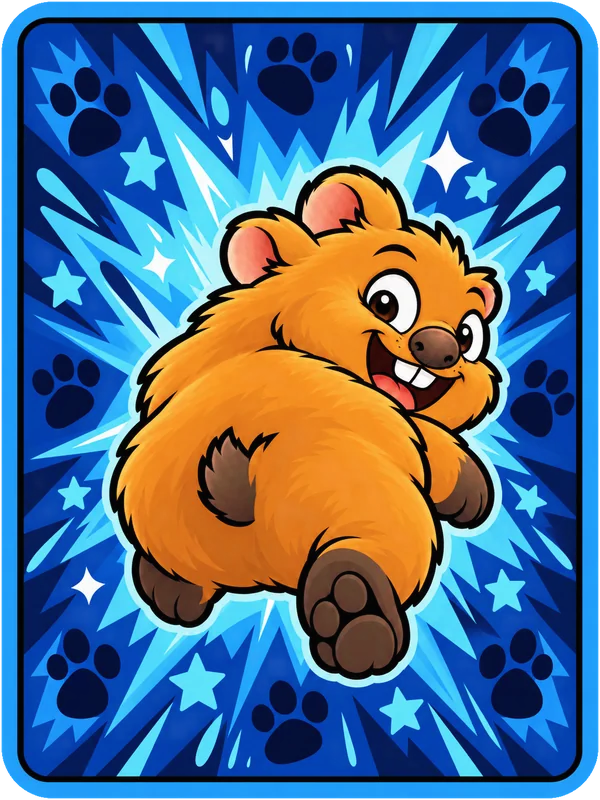
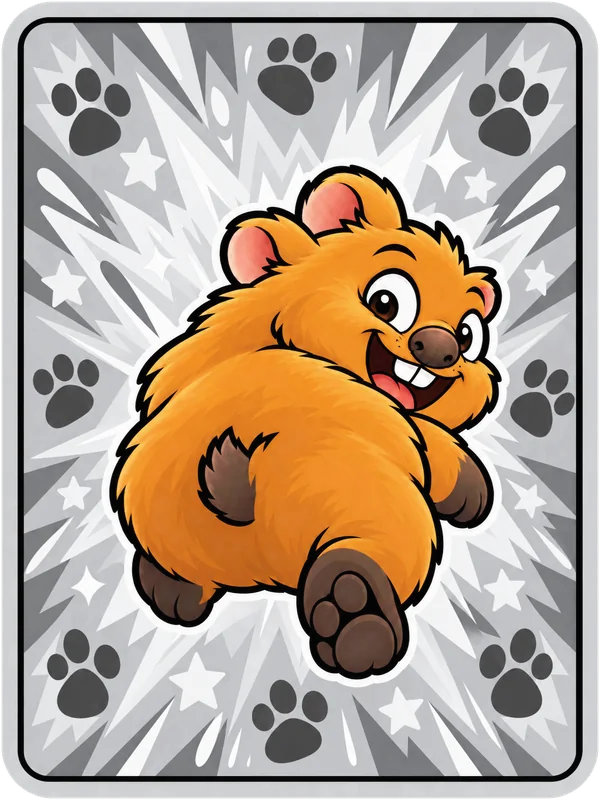
Nieuw app-icoon (juichende wombat met lontje, met oranje marge) en grijze achterkant
Claude-Session: https://claude.ai/code/session_01PFkz3mkhyNLrTZMqtyQZkE

diff --git a/sw.js b/sw.js
@@ -1,5 +1,5 @@
 // Wombam! service worker. Verhoog CACHE bij elke nieuwe versie (build.py doet dat vanzelf).
-const CACHE='wombam-v33';
+const CACHE='wombam-v35';
 const EXT='wombam-extern';   // lettertypen en Firebase-software: blijven bewaard bij een nieuwe versie
 const ASSETS=['./','index.html','manifest.webmanifest','icon-192.png','icon-512.png','icon-maskable-512.png','apple-touch-icon.png','favicon.ico','favicon-32.png','img/attack-kaart.webp','img/attack.webp','img/back.webp','img/beard-kaart.webp','img/beard.webp','img/blij.svg','img/defuse-kaart.webp','img/defuse.webp','img/ek-kaart.webp','img/ek.webp','img/face-beard.webp','img/face-future.webp','img/face-melon.webp','img/face-nope.webp','img/face-skip.webp','img/face-taco.webp','img/favor-kaart.webp','img/favor.webp','img/future-kaart.webp','img/future.webp','img/melon-kaart.webp','img/melon.webp','img/nope-kaart.webp','img/nope.webp','img/potato-kaart.webp','img/potato.webp','img/rainbow-kaart.webp','img/rainbow.webp','img/shuffle-kaart.webp','img/shuffle.webp','img/sip.svg','img/skip-kaart.webp','img/skip.webp','img/star.svg','img/taco-kaart.webp','img/taco.webp'];
 

diff --git a/build.py b/build.py
@@ -84,22 +84,34 @@ def wombats():
         (IMG / f'{doel}.svg').write_text(animeer(s, cfg, doel), encoding='utf-8')
 
 
+def _met_marge(im, marge):
+    """Zet de tekening kleiner op een groter vlak in het oranje van de rand; de rand loopt zacht over, zonder naad."""
+    from PIL import ImageDraw, ImageFilter, ImageStat
+    w = im.width
+    strook = [im.crop((0, 0, w, 8)), im.crop((0, w - 8, w, w)), im.crop((0, 0, 8, w)), im.crop((w - 8, 0, w, w))]
+    kleur = tuple(round(sum(ImageStat.Stat(x).mean[i] for x in strook) / 4) for i in range(3))
+    groot = round(w * (1 + 2 * marge))
+    vlak = Image.new('RGB', (groot, groot), kleur)
+    rand = round(w * 0.08)
+    masker = Image.new('L', (w, w), 0)
+    ImageDraw.Draw(masker).rectangle((rand, rand, w - rand, w - rand), fill=255)
+    masker = masker.filter(ImageFilter.GaussianBlur(rand / 2))
+    off = (groot - w) // 2
+    vlak.paste(im, (off, off), masker)
+    return vlak
+
+
 def iconen():
-    """bron/icoon.png is een afgerond vierkant op wit. Telefoons ronden zelf af, dus we knippen net binnen
-    de ronde hoeken een vol vierkant uit; voor Android (maskable) komt dat kleiner op de turquoise achtergrond."""
+    """bron/icoon.png: de wombat op oranje. Rondom komt extra oranje, zodat telefoons de rand mogen afronden;
+    voor Android (maskable, soms rond afgesneden) nog wat meer."""
     im = Image.open(BRON / 'icoon.png').convert('RGB')
-    w, h = im.size
-    m = round(min(w, h) * 0.058)                 # net binnen de afgeronde hoeken
-    sq = im.crop((m, m, w - m, h - m))
+    sq = _met_marge(im, 0.12)
     sq.resize((512, 512), Image.LANCZOS).save(ROOT / 'icon-512.png', optimize=True)
     sq.resize((192, 192), Image.LANCZOS).save(ROOT / 'icon-192.png', optimize=True)
     sq.resize((180, 180), Image.LANCZOS).save(ROOT / 'apple-touch-icon.png', optimize=True)
     sq.resize((32, 32), Image.LANCZOS).save(ROOT / 'favicon-32.png', optimize=True)
     sq.resize((48, 48), Image.LANCZOS).save(ROOT / 'favicon.ico', sizes=[(16, 16), (32, 32), (48, 48)])
-    bg = sq.getpixel((6, 6))                    # turquoise uit de hoek
-    mk = Image.new('RGB', (512, 512), bg)
-    mk.paste(sq.resize((420, 420), Image.LANCZOS), (46, 46))
-    mk.save(ROOT / 'icon-maskable-512.png', optimize=True)
+    _met_marge(im, 0.22).resize((512, 512), Image.LANCZOS).save(ROOT / 'icon-maskable-512.png', optimize=True)
 
 
 def service_worker(ophogen):
